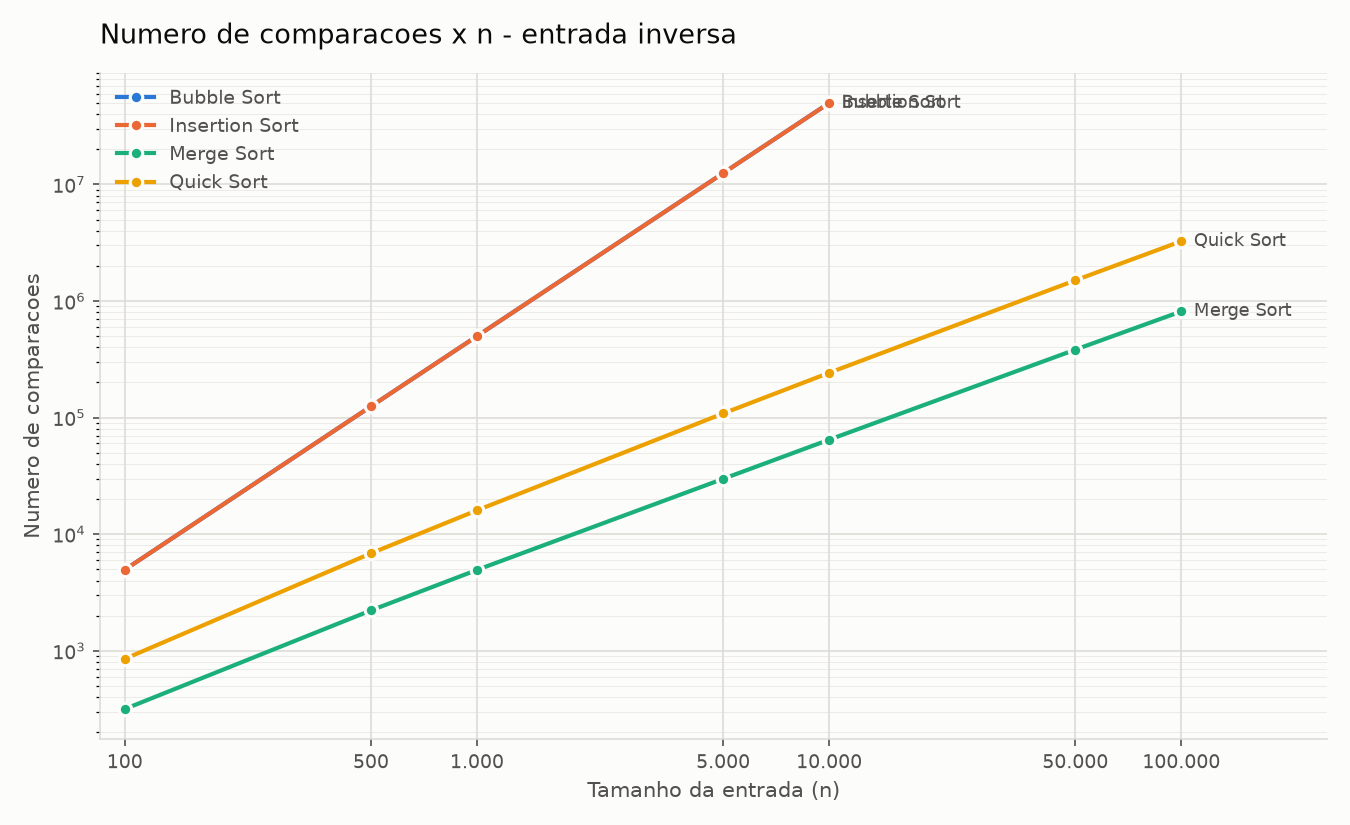
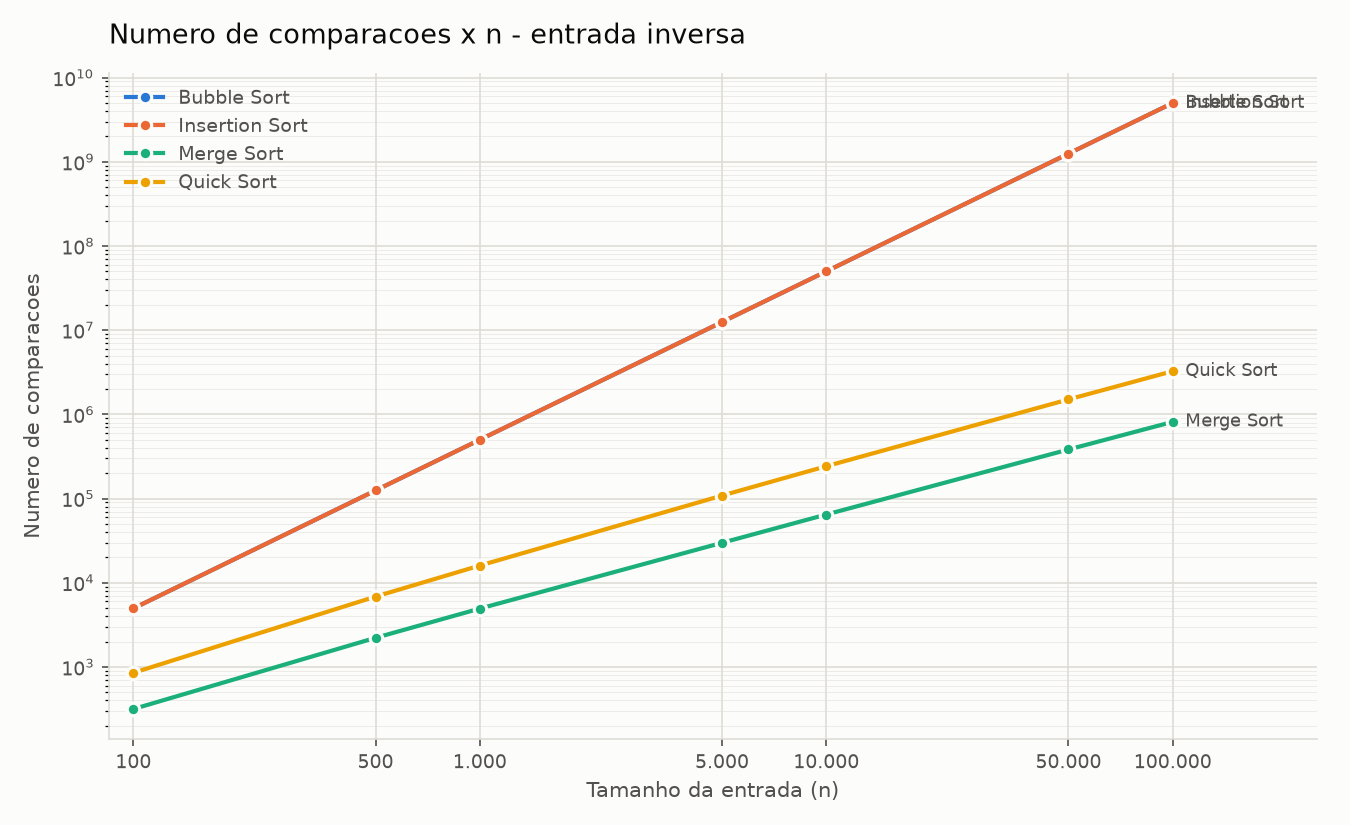
Analise completa dos algoritmos ate 100000 elementos

diff --git a/analise.md b/analise.md
@@ -1,6 +1,6 @@
 # Analise dos resultados
 
-Fonte: `resultados.csv` - 96 medicoes, media de 3 execucoes por ponto.
+Fonte: `completo.csv` - 112 medicoes, media de 3 execucoes por ponto.
 
 ## Algoritmos avaliados
 
@@ -18,37 +18,37 @@ Fonte: `resultados.csv` - 96 medicoes, media de 3 execucoes por ponto.
 
 | Algoritmo | n = 100 | n = 500 | n = 1,000 | n = 5,000 | n = 10,000 | n = 50,000 | n = 100,000 |
 |---|---|---|---|---|---|---|---|
-| Bubble Sort | 0.000309 | 0.008524 | 0.037689 | 1.046601 | 4.216614 | - | - |
-| Insertion Sort | 0.000151 | 0.004010 | 0.016111 | 0.474119 | 1.761111 | - | - |
-| Merge Sort | 0.000108 | 0.000609 | 0.001379 | 0.008401 | 0.017855 | 0.104730 | 0.223572 |
-| Quick Sort | 0.000076 | 0.000488 | 0.001134 | 0.006922 | 0.014552 | 0.086562 | 0.184794 |
+| Bubble Sort | 0.001005 | 0.030115 | 0.129053 | 3.892340 | 16.373086 | 432.266949 | 1686.363383 |
+| Insertion Sort | 0.000506 | 0.011879 | 0.051482 | 1.471646 | 5.873240 | 156.774371 | 690.796208 |
+| Merge Sort | 0.006161 | 0.005454 | 0.004972 | 0.028305 | 0.105115 | 0.330726 | 0.700057 |
+| Quick Sort | 0.007547 | 0.001720 | 0.003980 | 0.024344 | 0.050553 | 0.305159 | 0.643772 |
 
 ### Entrada: ordenada
 
 | Algoritmo | n = 100 | n = 500 | n = 1,000 | n = 5,000 | n = 10,000 | n = 50,000 | n = 100,000 |
 |---|---|---|---|---|---|---|---|
-| Bubble Sort | 0.000003 | 0.000018 | 0.000040 | 0.000223 | 0.000440 | - | - |
-| Insertion Sort | 0.000006 | 0.000033 | 0.000074 | 0.000407 | 0.000841 | - | - |
-| Merge Sort | 0.000079 | 0.000492 | 0.001083 | 0.007107 | 0.014738 | 0.085074 | 0.176935 |
-| Quick Sort | 0.000047 | 0.000308 | 0.000695 | 0.004522 | 0.009488 | 0.054979 | 0.115182 |
+| Bubble Sort | 0.000013 | 0.000068 | 0.000141 | 0.000707 | 0.001491 | 0.007304 | 0.014936 |
+| Insertion Sort | 0.000022 | 0.000123 | 0.000269 | 0.001384 | 0.002932 | 0.016708 | 0.031054 |
+| Merge Sort | 0.000347 | 0.001741 | 0.003855 | 0.022404 | 0.047318 | 0.272890 | 0.567150 |
+| Quick Sort | 0.000189 | 0.001042 | 0.002307 | 0.014863 | 0.031327 | 0.182995 | 0.382742 |
 
 ### Entrada: inversa
 
 | Algoritmo | n = 100 | n = 500 | n = 1,000 | n = 5,000 | n = 10,000 | n = 50,000 | n = 100,000 |
 |---|---|---|---|---|---|---|---|
-| Bubble Sort | 0.000398 | 0.010803 | 0.047568 | 1.410157 | 5.442679 | - | - |
-| Insertion Sort | 0.000285 | 0.007567 | 0.032349 | 0.860424 | 3.481293 | - | - |
-| Merge Sort | 0.000079 | 0.000509 | 0.001099 | 0.006726 | 0.014280 | 0.083597 | 0.172843 |
-| Quick Sort | 0.000073 | 0.000624 | 0.001501 | 0.010073 | 0.022357 | 0.138782 | 0.301911 |
+| Bubble Sort | 0.001474 | 0.040368 | 0.172982 | 4.752913 | 19.411177 | 509.529474 | 2288.864650 |
+| Insertion Sort | 0.001316 | 0.026438 | 0.103221 | 2.885878 | 11.321627 | 291.626901 | 1264.737554 |
+| Merge Sort | 0.000274 | 0.001673 | 0.003785 | 0.022375 | 0.046784 | 0.261272 | 0.554790 |
+| Quick Sort | 0.000370 | 0.002400 | 0.005983 | 0.039250 | 0.091527 | 0.539961 | 1.161648 |
 
 ### Entrada: parcialmente_ordenada
 
 | Algoritmo | n = 100 | n = 500 | n = 1,000 | n = 5,000 | n = 10,000 | n = 50,000 | n = 100,000 |
 |---|---|---|---|---|---|---|---|
-| Bubble Sort | 0.000199 | 0.005250 | 0.024714 | 0.664679 | 2.702157 | - | - |
-| Insertion Sort | 0.000034 | 0.000941 | 0.003808 | 0.100983 | 0.402970 | - | - |
-| Merge Sort | 0.000084 | 0.000577 | 0.001224 | 0.007687 | 0.016736 | 0.095066 | 0.202363 |
-| Quick Sort | 0.000060 | 0.000430 | 0.001065 | 0.006276 | 0.013652 | 0.081317 | 0.172933 |
+| Bubble Sort | 0.000587 | 0.017375 | 0.088901 | 2.307057 | 10.080857 | 232.119670 | 928.480754 |
+| Insertion Sort | 0.000184 | 0.003307 | 0.022717 | 0.425802 | 1.493073 | 37.176723 | 138.428532 |
+| Merge Sort | 0.000305 | 0.001899 | 0.004284 | 0.025969 | 0.055078 | 0.352796 | 0.679314 |
+| Quick Sort | 0.000223 | 0.001498 | 0.003636 | 0.022007 | 0.047634 | 0.287696 | 0.607230 |
 
 ## Comparacoes
 
@@ -57,8 +57,8 @@ Fonte: `resultados.csv` - 96 medicoes, media de 3 execucoes por ponto.
 
 | Algoritmo | n = 100 | n = 500 | n = 1,000 | n = 5,000 | n = 10,000 | n = 50,000 | n = 100,000 |
 |---|---|---|---|---|---|---|---|
-| Bubble Sort | 4,775 | 124,479 | 498,590 | 12,492,979 | 49,989,839 | - | - |
-| Insertion Sort | 2,386 | 61,795 | 246,478 | 6,252,755 | 24,856,051 | - | - |
+| Bubble Sort | 4,775 | 124,479 | 498,590 | 12,492,979 | 49,989,839 | 1,249,964,281 | 4,999,868,357 |
+| Insertion Sort | 2,386 | 61,795 | 246,478 | 6,252,755 | 24,856,051 | 625,537,186 | 2,502,206,219 |
 | Merge Sort | 540 | 3,849 | 8,707 | 55,201 | 120,367 | 718,185 | 1,536,439 |
 | Quick Sort | 728 | 4,864 | 11,275 | 70,306 | 148,915 | 893,295 | 1,912,179 |
 
@@ -66,8 +66,8 @@ Fonte: `resultados.csv` - 96 medicoes, media de 3 execucoes por ponto.
 
 | Algoritmo | n = 100 | n = 500 | n = 1,000 | n = 5,000 | n = 10,000 | n = 50,000 | n = 100,000 |
 |---|---|---|---|---|---|---|---|
-| Bubble Sort | 99 | 499 | 999 | 4,999 | 9,999 | - | - |
-| Insertion Sort | 99 | 499 | 999 | 4,999 | 9,999 | - | - |
+| Bubble Sort | 99 | 499 | 999 | 4,999 | 9,999 | 49,999 | 99,999 |
+| Insertion Sort | 99 | 499 | 999 | 4,999 | 9,999 | 49,999 | 99,999 |
 | Merge Sort | 356 | 2,272 | 5,044 | 32,004 | 69,008 | 401,952 | 853,904 |
 | Quick Sort | 669 | 4,263 | 9,520 | 60,678 | 131,343 | 782,782 | 1,665,551 |
 
@@ -75,8 +75,8 @@ Fonte: `resultados.csv` - 96 medicoes, media de 3 execucoes por ponto.
 
 | Algoritmo | n = 100 | n = 500 | n = 1,000 | n = 5,000 | n = 10,000 | n = 50,000 | n = 100,000 |
 |---|---|---|---|---|---|---|---|
-| Bubble Sort | 4,950 | 124,750 | 499,500 | 12,497,500 | 49,995,000 | - | - |
-| Insertion Sort | 4,950 | 124,750 | 499,500 | 12,497,500 | 49,995,000 | - | - |
+| Bubble Sort | 4,950 | 124,750 | 499,500 | 12,497,500 | 49,995,000 | 1,249,975,000 | 4,999,950,000 |
+| Insertion Sort | 4,950 | 124,750 | 499,500 | 12,497,500 | 49,995,000 | 1,249,975,000 | 4,999,950,000 |
 | Merge Sort | 316 | 2,216 | 4,932 | 29,804 | 64,608 | 382,512 | 815,024 |
 | Quick Sort | 851 | 6,843 | 15,995 | 108,443 | 242,135 | 1,504,807 | 3,259,375 |
 
@@ -84,8 +84,8 @@ Fonte: `resultados.csv` - 96 medicoes, media de 3 execucoes por ponto.
 
 | Algoritmo | n = 100 | n = 500 | n = 1,000 | n = 5,000 | n = 10,000 | n = 50,000 | n = 100,000 |
 |---|---|---|---|---|---|---|---|
-| Bubble Sort | 4,639 | 119,518 | 494,512 | 12,468,251 | 49,959,749 | - | - |
-| Insertion Sort | 622 | 14,766 | 57,159 | 1,438,326 | 5,760,634 | - | - |
+| Bubble Sort | 4,639 | 119,518 | 494,512 | 12,468,251 | 49,959,749 | 1,249,510,916 | 4,999,578,768 |
+| Insertion Sort | 622 | 14,766 | 57,159 | 1,438,326 | 5,760,634 | 144,947,862 | 575,734,504 |
 | Merge Sort | 494 | 3,542 | 8,092 | 52,787 | 115,475 | 692,603 | 1,485,631 |
 | Quick Sort | 748 | 5,212 | 13,694 | 79,165 | 175,170 | 1,030,492 | 2,296,615 |
 
@@ -96,8 +96,8 @@ Fonte: `resultados.csv` - 96 medicoes, media de 3 execucoes por ponto.
 
 | Algoritmo | n = 100 | n = 500 | n = 1,000 | n = 5,000 | n = 10,000 | n = 50,000 | n = 100,000 |
 |---|---|---|---|---|---|---|---|
-| Bubble Sort | 4,579 | 122,601 | 490,970 | 12,495,525 | 49,692,119 | - | - |
-| Insertion Sort | 2,388 | 61,799 | 246,484 | 6,252,762 | 24,856,059 | - | - |
+| Bubble Sort | 4,579 | 122,601 | 490,970 | 12,495,525 | 49,692,119 | 1,250,974,391 | 5,004,212,457 |
+| Insertion Sort | 2,388 | 61,799 | 246,484 | 6,252,762 | 24,856,059 | 625,537,195 | 2,502,206,228 |
 | Merge Sort | 1,344 | 8,976 | 19,952 | 123,616 | 267,232 | 1,568,928 | 3,337,856 |
 | Quick Sort | 686 | 4,487 | 10,777 | 65,383 | 137,413 | 861,987 | 1,791,569 |
 
@@ -105,8 +105,8 @@ Fonte: `resultados.csv` - 96 medicoes, media de 3 execucoes por ponto.
 
 | Algoritmo | n = 100 | n = 500 | n = 1,000 | n = 5,000 | n = 10,000 | n = 50,000 | n = 100,000 |
 |---|---|---|---|---|---|---|---|
-| Bubble Sort | 0 | 0 | 0 | 0 | 0 | - | - |
-| Insertion Sort | 99 | 499 | 999 | 4,999 | 9,999 | - | - |
+| Bubble Sort | 0 | 0 | 0 | 0 | 0 | 0 | 0 |
+| Insertion Sort | 99 | 499 | 999 | 4,999 | 9,999 | 49,999 | 99,999 |
 | Merge Sort | 1,344 | 8,976 | 19,952 | 123,616 | 267,232 | 1,568,928 | 3,337,856 |
 | Quick Sort | 252 | 1,020 | 2,044 | 11,808 | 23,616 | 131,068 | 262,140 |
 
@@ -114,8 +114,8 @@ Fonte: `resultados.csv` - 96 medicoes, media de 3 execucoes por ponto.
 
 | Algoritmo | n = 100 | n = 500 | n = 1,000 | n = 5,000 | n = 10,000 | n = 50,000 | n = 100,000 |
 |---|---|---|---|---|---|---|---|
-| Bubble Sort | 9,900 | 249,500 | 999,000 | 24,995,000 | 99,990,000 | - | - |
-| Insertion Sort | 5,049 | 125,249 | 500,499 | 12,502,499 | 50,004,999 | - | - |
+| Bubble Sort | 9,900 | 249,500 | 999,000 | 24,995,000 | 99,990,000 | 2,499,950,000 | 9,999,900,000 |
+| Insertion Sort | 5,049 | 125,249 | 500,499 | 12,502,499 | 50,004,999 | 1,250,024,999 | 5,000,049,999 |
 | Merge Sort | 1,344 | 8,976 | 19,952 | 123,616 | 267,232 | 1,568,928 | 3,337,856 |
 | Quick Sort | 936 | 7,672 | 18,168 | 125,784 | 281,088 | 1,763,200 | 3,826,464 |
 
@@ -123,8 +123,8 @@ Fonte: `resultados.csv` - 96 medicoes, media de 3 execucoes por ponto.
 
 | Algoritmo | n = 100 | n = 500 | n = 1,000 | n = 5,000 | n = 10,000 | n = 50,000 | n = 100,000 |
 |---|---|---|---|---|---|---|---|
-| Bubble Sort | 1,047 | 28,534 | 112,320 | 2,866,656 | 11,501,271 | - | - |
-| Insertion Sort | 622 | 14,766 | 57,159 | 1,438,327 | 5,760,634 | - | - |
+| Bubble Sort | 1,047 | 28,534 | 112,320 | 2,866,656 | 11,501,271 | 289,795,728 | 1,151,269,011 |
+| Insertion Sort | 622 | 14,766 | 57,159 | 1,438,327 | 5,760,634 | 144,947,863 | 575,734,505 |
 | Merge Sort | 1,344 | 8,976 | 19,952 | 123,616 | 267,232 | 1,568,928 | 3,337,856 |
 | Quick Sort | 416 | 3,290 | 7,913 | 50,080 | 113,315 | 716,251 | 1,469,607 |
 
@@ -135,8 +135,8 @@ Fonte: `resultados.csv` - 96 medicoes, media de 3 execucoes por ponto.
 
 | Algoritmo | n = 100 | n = 500 | n = 1,000 | n = 5,000 | n = 10,000 | n = 50,000 | n = 100,000 |
 |---|---|---|---|---|---|---|---|
-| Bubble Sort | 2,289 | 61,300 | 245,485 | 6,247,763 | 24,846,060 | - | - |
-| Insertion Sort | 0 | 0 | 0 | 0 | 0 | - | - |
+| Bubble Sort | 2,289 | 61,300 | 245,485 | 6,247,763 | 24,846,060 | 625,487,196 | 2,502,106,229 |
+| Insertion Sort | 0 | 0 | 0 | 0 | 0 | 0 | 0 |
 | Merge Sort | 0 | 0 | 0 | 0 | 0 | 0 | 0 |
 | Quick Sort | 343 | 2,244 | 5,388 | 32,691 | 68,706 | 430,993 | 895,785 |
 
@@ -144,8 +144,8 @@ Fonte: `resultados.csv` - 96 medicoes, media de 3 execucoes por ponto.
 
 | Algoritmo | n = 100 | n = 500 | n = 1,000 | n = 5,000 | n = 10,000 | n = 50,000 | n = 100,000 |
 |---|---|---|---|---|---|---|---|
-| Bubble Sort | 0 | 0 | 0 | 0 | 0 | - | - |
-| Insertion Sort | 0 | 0 | 0 | 0 | 0 | - | - |
+| Bubble Sort | 0 | 0 | 0 | 0 | 0 | 0 | 0 |
+| Insertion Sort | 0 | 0 | 0 | 0 | 0 | 0 | 0 |
 | Merge Sort | 0 | 0 | 0 | 0 | 0 | 0 | 0 |
 | Quick Sort | 126 | 510 | 1,022 | 5,904 | 11,808 | 65,534 | 131,070 |
 
@@ -153,8 +153,8 @@ Fonte: `resultados.csv` - 96 medicoes, media de 3 execucoes por ponto.
 
 | Algoritmo | n = 100 | n = 500 | n = 1,000 | n = 5,000 | n = 10,000 | n = 50,000 | n = 100,000 |
 |---|---|---|---|---|---|---|---|
-| Bubble Sort | 4,950 | 124,750 | 499,500 | 12,497,500 | 49,995,000 | - | - |
-| Insertion Sort | 0 | 0 | 0 | 0 | 0 | - | - |
+| Bubble Sort | 4,950 | 124,750 | 499,500 | 12,497,500 | 49,995,000 | 1,249,975,000 | 4,999,950,000 |
+| Insertion Sort | 0 | 0 | 0 | 0 | 0 | 0 | 0 |
 | Merge Sort | 0 | 0 | 0 | 0 | 0 | 0 | 0 |
 | Quick Sort | 468 | 3,836 | 9,084 | 62,892 | 140,544 | 881,600 | 1,913,232 |
 
@@ -162,8 +162,8 @@ Fonte: `resultados.csv` - 96 medicoes, media de 3 execucoes por ponto.
 
 | Algoritmo | n = 100 | n = 500 | n = 1,000 | n = 5,000 | n = 10,000 | n = 50,000 | n = 100,000 |
 |---|---|---|---|---|---|---|---|
-| Bubble Sort | 523 | 14,267 | 56,160 | 1,433,328 | 5,750,635 | - | - |
-| Insertion Sort | 0 | 0 | 0 | 0 | 0 | - | - |
+| Bubble Sort | 523 | 14,267 | 56,160 | 1,433,328 | 5,750,635 | 144,897,864 | 575,634,506 |
+| Insertion Sort | 0 | 0 | 0 | 0 | 0 | 0 | 0 |
 | Merge Sort | 0 | 0 | 0 | 0 | 0 | 0 | 0 |
 | Quick Sort | 208 | 1,645 | 3,957 | 25,040 | 56,657 | 358,125 | 734,804 |
 
@@ -173,52 +173,59 @@ Razao entre medicoes consecutivas. A coluna Obs./Prev. proxima de 1,0 indica que
 
 | Algoritmo | Transicao de n | Classe teorica | Crescimento observado | Crescimento previsto | Obs./Prev. |
 |---|---|---|---|---|---|
-| Bubble Sort | 100 -> 500 | O(n^2) | 27.57x | 25.00x | 1.10 |
-| Bubble Sort | 500 -> 1,000 | O(n^2) | 4.42x | 4.00x | 1.11 |
-| Bubble Sort | 1,000 -> 5,000 | O(n^2) | 27.77x | 25.00x | 1.11 |
-| Bubble Sort | 5,000 -> 10,000 | O(n^2) | 4.03x | 4.00x | 1.01 |
-| Insertion Sort | 100 -> 500 | O(n^2) | 26.59x | 25.00x | 1.06 |
-| Insertion Sort | 500 -> 1,000 | O(n^2) | 4.02x | 4.00x | 1.00 |
-| Insertion Sort | 1,000 -> 5,000 | O(n^2) | 29.43x | 25.00x | 1.18 |
-| Insertion Sort | 5,000 -> 10,000 | O(n^2) | 3.71x | 4.00x | 0.93 |
-| Merge Sort | 100 -> 500 | O(n log n) | 5.64x | 6.75x | 0.84 |
-| Merge Sort | 500 -> 1,000 | O(n log n) | 2.27x | 2.22x | 1.02 |
-| Merge Sort | 1,000 -> 5,000 | O(n log n) | 6.09x | 6.16x | 0.99 |
-| Merge Sort | 5,000 -> 10,000 | O(n log n) | 2.13x | 2.16x | 0.98 |
-| Merge Sort | 10,000 -> 50,000 | O(n log n) | 5.87x | 5.87x | 1.00 |
-| Merge Sort | 50,000 -> 100,000 | O(n log n) | 2.13x | 2.13x | 1.00 |
-| Quick Sort | 100 -> 500 | O(n log n) | 6.46x | 6.75x | 0.96 |
-| Quick Sort | 500 -> 1,000 | O(n log n) | 2.32x | 2.22x | 1.04 |
-| Quick Sort | 1,000 -> 5,000 | O(n log n) | 6.11x | 6.16x | 0.99 |
-| Quick Sort | 5,000 -> 10,000 | O(n log n) | 2.10x | 2.16x | 0.97 |
-| Quick Sort | 10,000 -> 50,000 | O(n log n) | 5.95x | 5.87x | 1.01 |
-| Quick Sort | 50,000 -> 100,000 | O(n log n) | 2.13x | 2.13x | 1.00 |
+| Bubble Sort | 100 -> 500 | O(n^2) | 29.96x | 25.00x | 1.20 |
+| Bubble Sort | 500 -> 1,000 | O(n^2) | 4.29x | 4.00x | 1.07 |
+| Bubble Sort | 1,000 -> 5,000 | O(n^2) | 30.16x | 25.00x | 1.21 |
+| Bubble Sort | 5,000 -> 10,000 | O(n^2) | 4.21x | 4.00x | 1.05 |
+| Bubble Sort | 10,000 -> 50,000 | O(n^2) | 26.40x | 25.00x | 1.06 |
+| Bubble Sort | 50,000 -> 100,000 | O(n^2) | 3.90x | 4.00x | 0.98 |
+| Insertion Sort | 100 -> 500 | O(n^2) | 23.46x | 25.00x | 0.94 |
+| Insertion Sort | 500 -> 1,000 | O(n^2) | 4.33x | 4.00x | 1.08 |
+| Insertion Sort | 1,000 -> 5,000 | O(n^2) | 28.59x | 25.00x | 1.14 |
+| Insertion Sort | 5,000 -> 10,000 | O(n^2) | 3.99x | 4.00x | 1.00 |
+| Insertion Sort | 10,000 -> 50,000 | O(n^2) | 26.69x | 25.00x | 1.07 |
+| Insertion Sort | 50,000 -> 100,000 | O(n^2) | 4.41x | 4.00x | 1.10 |
+| Merge Sort | 100 -> 500 | O(n log n) | 0.89x | 6.75x | 0.13 |
+| Merge Sort | 500 -> 1,000 | O(n log n) | 0.91x | 2.22x | 0.41 |
+| Merge Sort | 1,000 -> 5,000 | O(n log n) | 5.69x | 6.16x | 0.92 |
+| Merge Sort | 5,000 -> 10,000 | O(n log n) | 3.71x | 2.16x | 1.72 |
+| Merge Sort | 10,000 -> 50,000 | O(n log n) | 3.15x | 5.87x | 0.54 |
+| Merge Sort | 50,000 -> 100,000 | O(n log n) | 2.12x | 2.13x | 0.99 |
+| Quick Sort | 100 -> 500 | O(n log n) | 0.23x | 6.75x | 0.03 |
+| Quick Sort | 500 -> 1,000 | O(n log n) | 2.31x | 2.22x | 1.04 |
+| Quick Sort | 1,000 -> 5,000 | O(n log n) | 6.12x | 6.16x | 0.99 |
+| Quick Sort | 5,000 -> 10,000 | O(n log n) | 2.08x | 2.16x | 0.96 |
+| Quick Sort | 10,000 -> 50,000 | O(n log n) | 6.04x | 5.87x | 1.03 |
+| Quick Sort | 50,000 -> 100,000 | O(n log n) | 2.11x | 2.13x | 0.99 |
 
 ## Sensibilidade ao tipo de entrada
 
 | Algoritmo | n | Tempo: aleatoria | Tempo: ordenada | Tempo: inversa | Tempo: parcialmente_ordenada | Pior / melhor cenario |
 |---|---|---|---|---|---|---|
-| Bubble Sort | 10,000 | 4.216614 | 0.000440 | 5.442679 | 2.702157 | 12379.1x |
-| Insertion Sort | 10,000 | 1.761111 | 0.000841 | 3.481293 | 0.402970 | 4141.7x |
-| Merge Sort | 100,000 | 0.223572 | 0.176935 | 0.172843 | 0.202363 | 1.3x |
-| Quick Sort | 100,000 | 0.184794 | 0.115182 | 0.301911 | 0.172933 | 2.6x |
+| Bubble Sort | 100,000 | 1686.363383 | 0.014936 | 2288.864650 | 928.480754 | 153245.5x |
+| Insertion Sort | 100,000 | 690.796208 | 0.031054 | 1264.737554 | 138.428532 | 40726.9x |
+| Merge Sort | 100,000 | 0.700057 | 0.567150 | 0.554790 | 0.679314 | 1.3x |
+| Quick Sort | 100,000 | 0.643772 | 0.382742 | 1.161648 | 0.607230 | 3.0x |
 
 ## Leitura dos resultados
 
-- **Entrada aleatoria (n = 10,000, maior tamanho rodado por todos):** melhor desempenho do **Quick Sort** (0.014552 s); pior desempenho do **Bubble Sort** (4.216614 s) - 289.8x mais lento.
-- **Bubble Sort** no maior n medido (n = 10,000, aleatoria): 4.216614 s, 49,989,839 comparacoes, 49,692,119 movimentacoes (teorico: O(n^2) no caso medio).
-- **Insertion Sort** no maior n medido (n = 10,000, aleatoria): 1.761111 s, 24,856,051 comparacoes, 24,856,059 movimentacoes (teorico: O(n^2) no caso medio).
-- **Merge Sort** no maior n medido (n = 100,000, aleatoria): 0.223572 s, 1,536,439 comparacoes, 3,337,856 movimentacoes (teorico: O(n log n) no caso medio).
-- **Quick Sort** no maior n medido (n = 100,000, aleatoria): 0.184794 s, 1,912,179 comparacoes, 1,791,569 movimentacoes (teorico: O(n log n) no caso medio).
+- **Entrada aleatoria (n = 100,000, maior tamanho rodado por todos):** melhor desempenho do **Quick Sort** (0.643772 s); pior desempenho do **Bubble Sort** (1686.363383 s) - 2619.5x mais lento.
+- **Bubble Sort** no maior n medido (n = 100,000, aleatoria): 1686.363383 s, 4,999,868,357 comparacoes, 5,004,212,457 movimentacoes (teorico: O(n^2) no caso medio).
+- **Insertion Sort** no maior n medido (n = 100,000, aleatoria): 690.796208 s, 2,502,206,219 comparacoes, 2,502,206,228 movimentacoes (teorico: O(n^2) no caso medio).
+- **Merge Sort** no maior n medido (n = 100,000, aleatoria): 0.700057 s, 1,536,439 comparacoes, 3,337,856 movimentacoes (teorico: O(n log n) no caso medio).
+- **Quick Sort** no maior n medido (n = 100,000, aleatoria): 0.643772 s, 1,912,179 comparacoes, 1,791,569 movimentacoes (teorico: O(n log n) no caso medio).
 
-- **Bubble Sort** (n = 10,000): mais rapido com entrada *ordenada* e mais lento com entrada *inversa* - variacao de 12379.1x entre os cenarios.
-- **Insertion Sort** (n = 10,000): mais rapido com entrada *ordenada* e mais lento com entrada *inversa* - variacao de 4141.7x entre os cenarios.
-- **Quick Sort** (n = 100,000): mais rapido com entrada *ordenada* e mais lento com entrada *inversa* - variacao de 2.6x entre os cenarios.
+- **Bubble Sort** (n = 100,000): mais rapido com entrada *ordenada* e mais lento com entrada *inversa* - variacao de 153245.5x entre os cenarios.
+- **Insertion Sort** (n = 100,000): mais rapido com entrada *ordenada* e mais lento com entrada *inversa* - variacao de 40726.9x entre os cenarios.
+- **Quick Sort** (n = 100,000): mais rapido com entrada *ordenada* e mais lento com entrada *inversa* - variacao de 3.0x entre os cenarios.
 - **Merge Sort** (n = 100,000): mais rapido com entrada *inversa* e mais lento com entrada *aleatoria* - variacao de 1.3x entre os cenarios.
 
-- **O(n^2) competitivo:** com entrada *ordenada* e n = 100, o Bubble Sort (0.000003 s) foi igual ou mais rapido que o Quick Sort (0.000047 s).
-- **O(n^2) competitivo:** com entrada *ordenada* e n = 500, o Bubble Sort (0.000018 s) foi igual ou mais rapido que o Quick Sort (0.000308 s).
-- **O(n^2) competitivo:** com entrada *ordenada* e n = 1,000, o Bubble Sort (0.000040 s) foi igual ou mais rapido que o Quick Sort (0.000695 s).
-- **O(n^2) competitivo:** com entrada *ordenada* e n = 5,000, o Bubble Sort (0.000223 s) foi igual ou mais rapido que o Quick Sort (0.004522 s).
-- **O(n^2) competitivo:** com entrada *ordenada* e n = 10,000, o Bubble Sort (0.000440 s) foi igual ou mais rapido que o Quick Sort (0.009488 s).
-- **O(n^2) competitivo:** com entrada *parcialmente_ordenada* e n = 100, o Insertion Sort (0.000034 s) foi igual ou mais rapido que o Quick Sort (0.000060 s).
+- **O(n^2) competitivo:** com entrada *aleatoria* e n = 100, o Insertion Sort (0.000506 s) foi igual ou mais rapido que o Merge Sort (0.006161 s).
+- **O(n^2) competitivo:** com entrada *ordenada* e n = 100, o Bubble Sort (0.000013 s) foi igual ou mais rapido que o Quick Sort (0.000189 s).
+- **O(n^2) competitivo:** com entrada *ordenada* e n = 500, o Bubble Sort (0.000068 s) foi igual ou mais rapido que o Quick Sort (0.001042 s).
+- **O(n^2) competitivo:** com entrada *ordenada* e n = 1,000, o Bubble Sort (0.000141 s) foi igual ou mais rapido que o Quick Sort (0.002307 s).
+- **O(n^2) competitivo:** com entrada *ordenada* e n = 5,000, o Bubble Sort (0.000707 s) foi igual ou mais rapido que o Quick Sort (0.014863 s).
+- **O(n^2) competitivo:** com entrada *ordenada* e n = 10,000, o Bubble Sort (0.001491 s) foi igual ou mais rapido que o Quick Sort (0.031327 s).
+- **O(n^2) competitivo:** com entrada *ordenada* e n = 50,000, o Bubble Sort (0.007304 s) foi igual ou mais rapido que o Quick Sort (0.182995 s).
+- **O(n^2) competitivo:** com entrada *ordenada* e n = 100,000, o Bubble Sort (0.014936 s) foi igual ou mais rapido que o Quick Sort (0.382742 s).
+- **O(n^2) competitivo:** com entrada *parcialmente_ordenada* e n = 100, o Insertion Sort (0.000184 s) foi igual ou mais rapido que o Quick Sort (0.000223 s).
